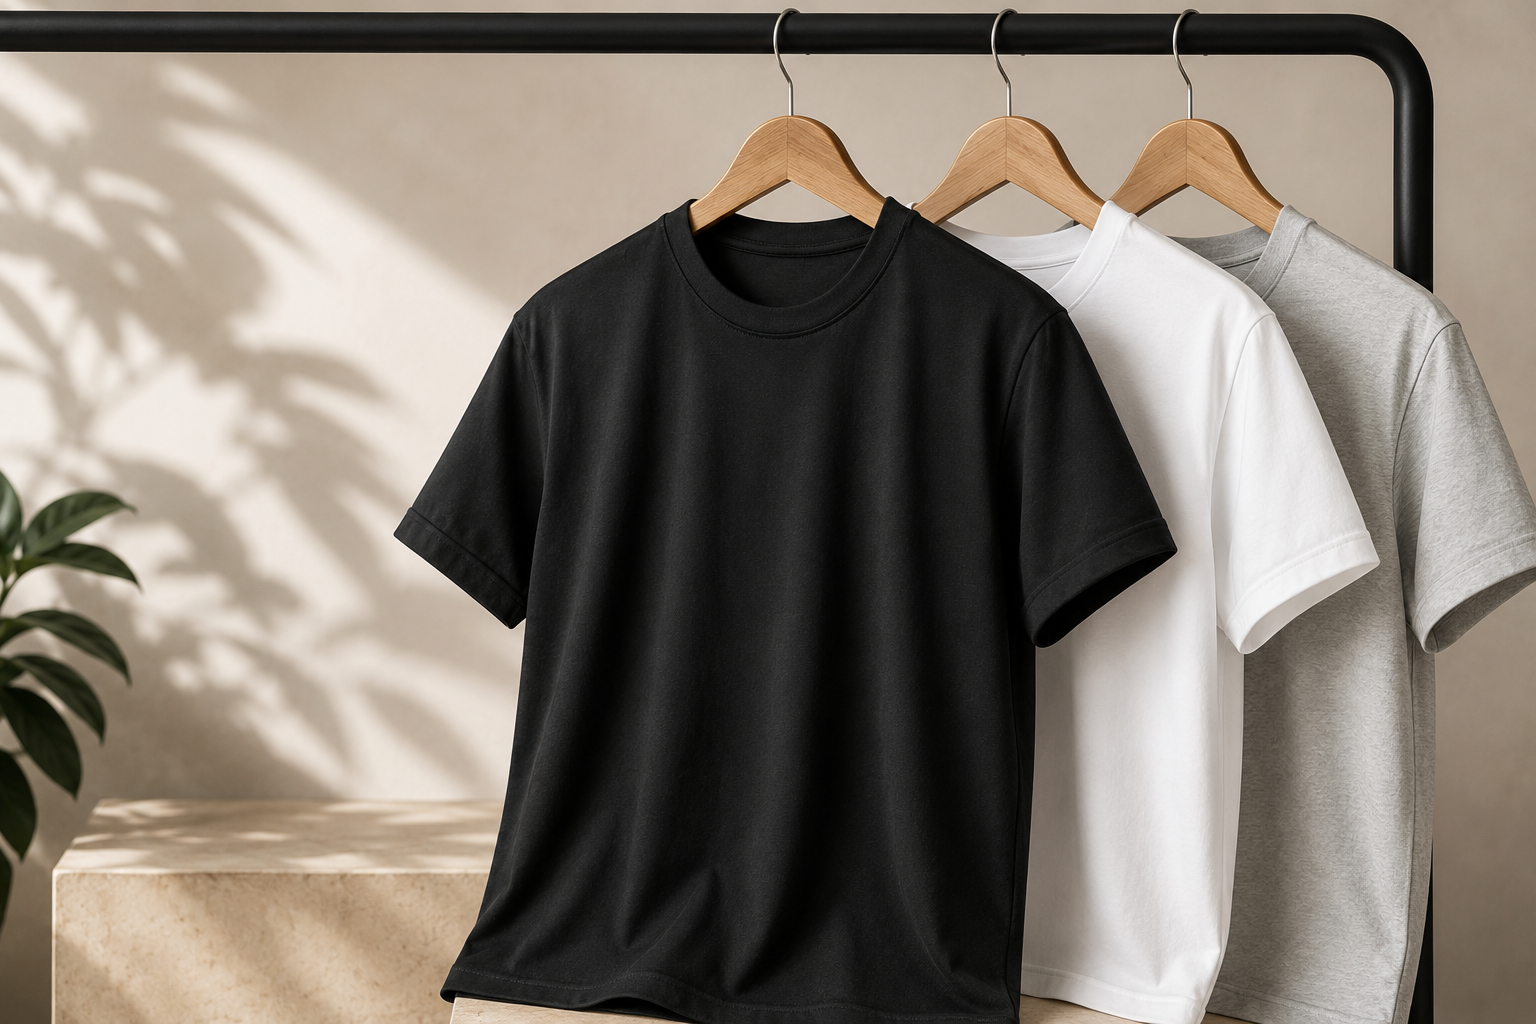
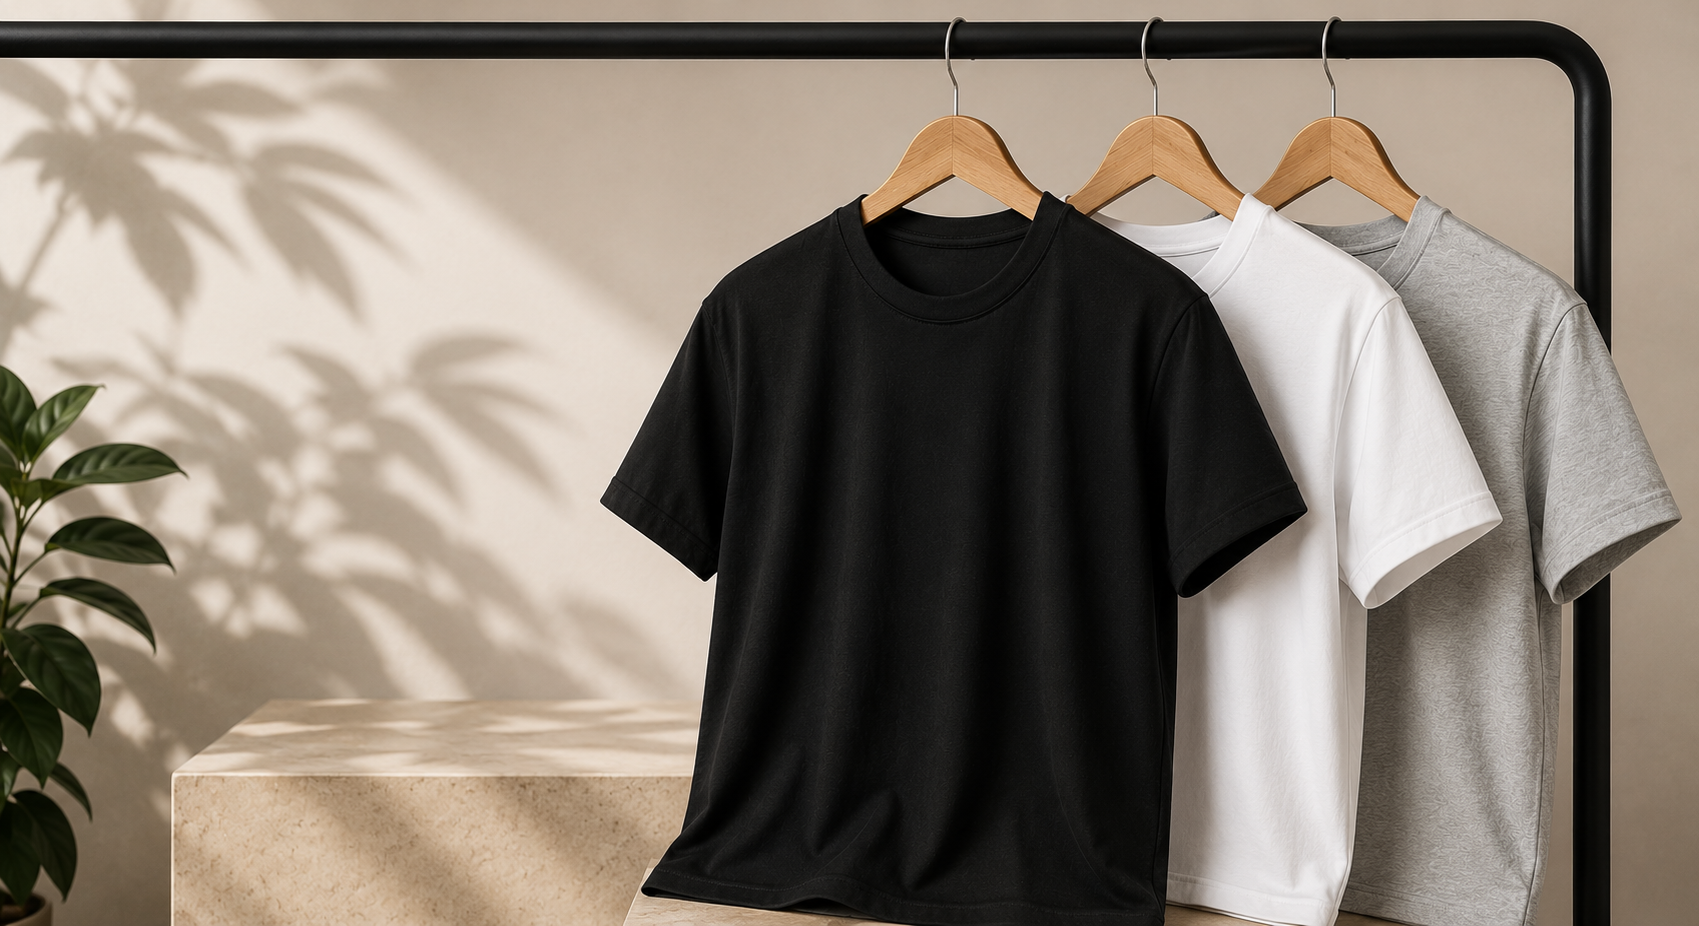
comit

diff --git a/loja/loja.css b/loja/loja.css
@@ -968,7 +968,7 @@ body.a11y-reduce-motion * {
     padding: 40px 60px;
     display: flex;
     align-items: center;
-    background-size: 100% 100%; /* Mudança aqui: de cover para 100% 100% */
+    background-size: 100%; /* Mudança aqui: de cover para 100% 100% */
     background-position: center;
     background-repeat: no-repeat;
     position: relative;
